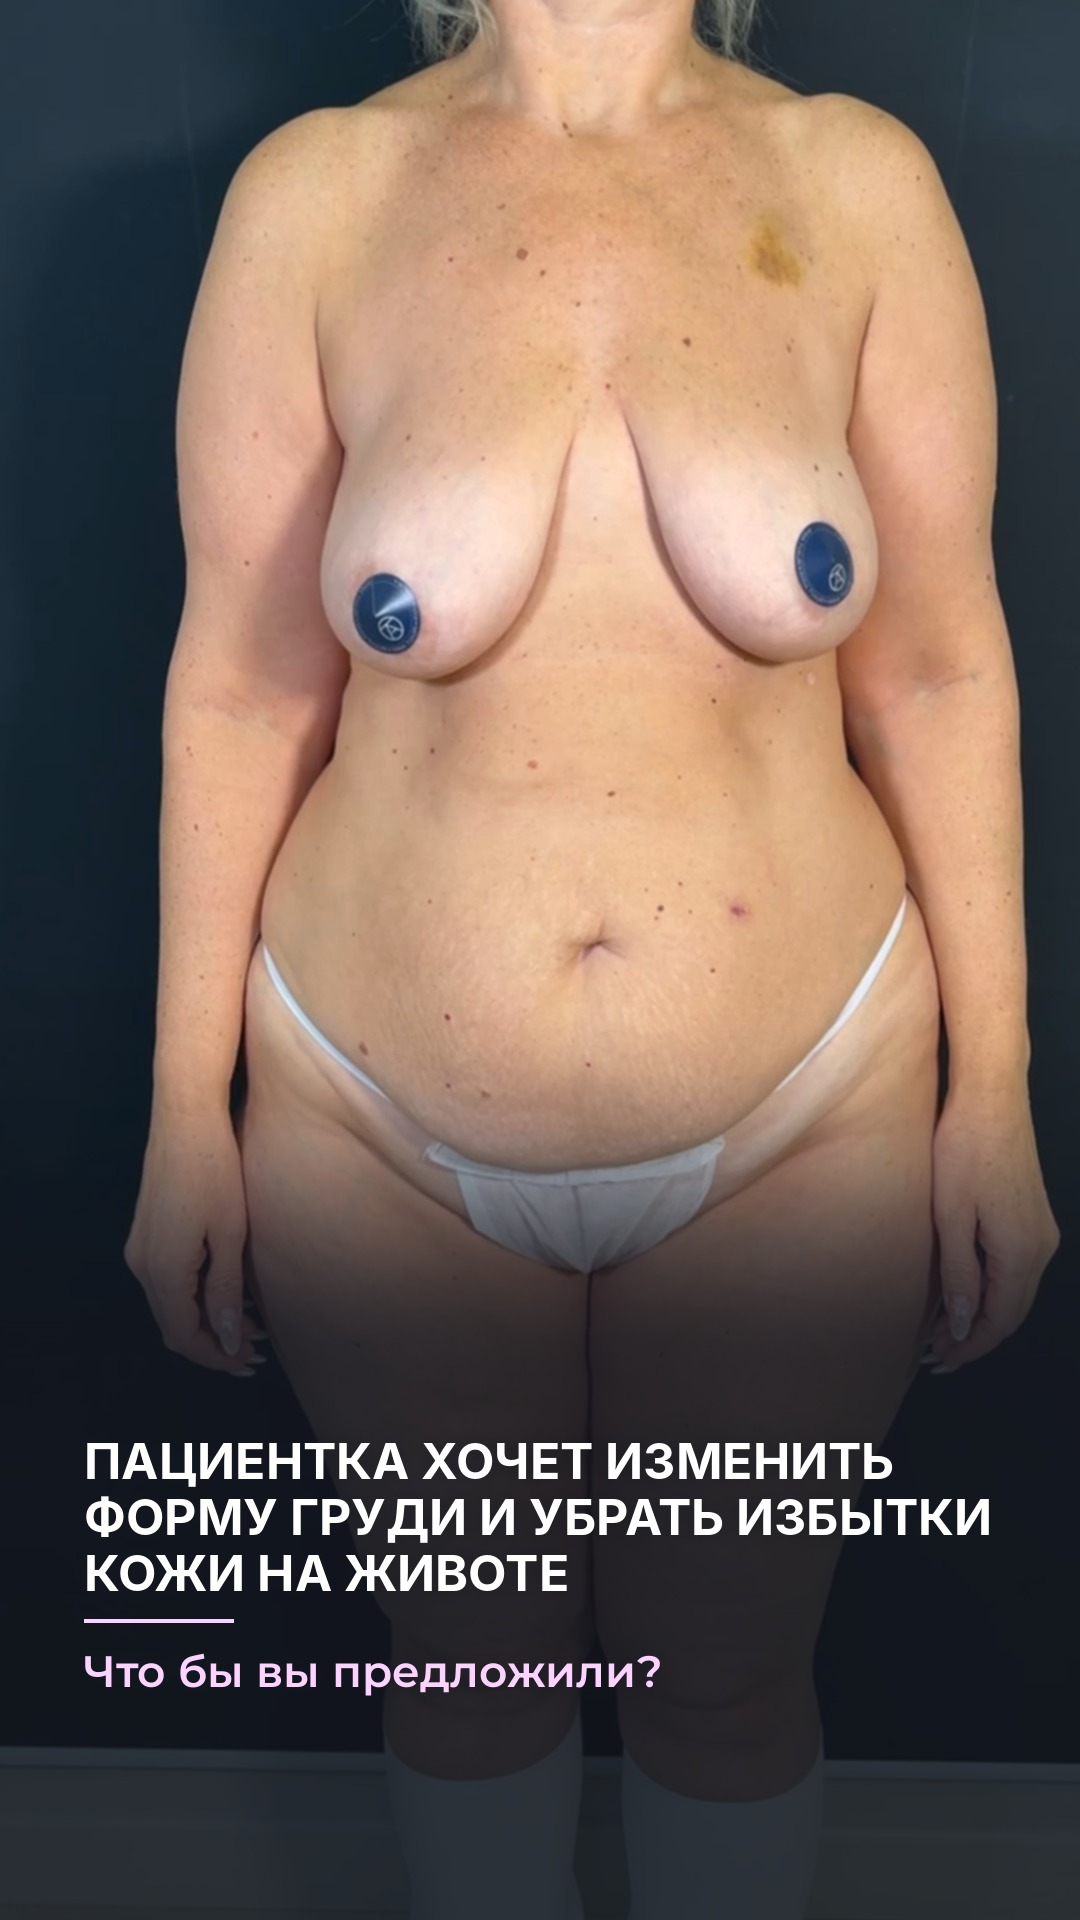
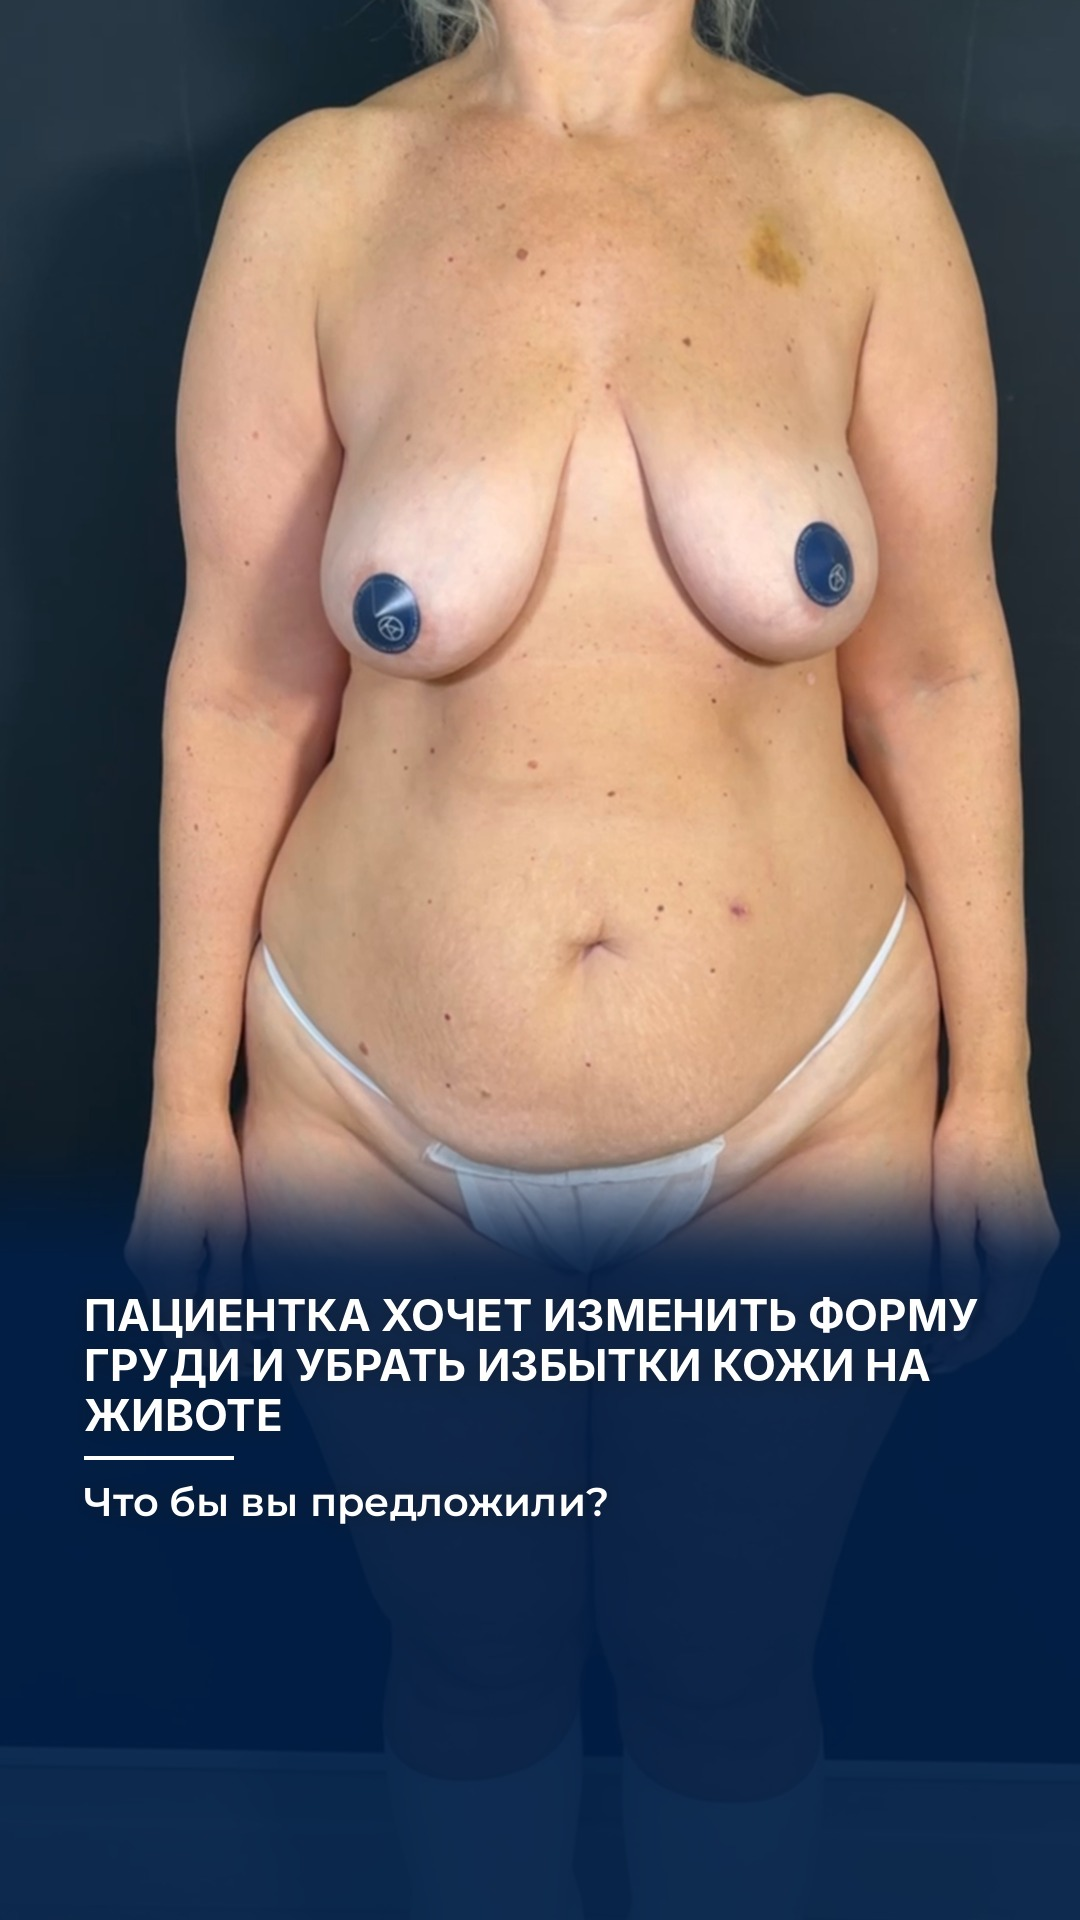
Abdo stories: surgeon's navy + white instead of lilac, poll space under the text on story 1
Claude-Session: https://claude.ai/code/session_01DoBoRz2HUe4yvMBz6dWv4L

diff --git a/tools/stories_abdo_complex.py b/tools/stories_abdo_complex.py
@@ -2,7 +2,7 @@
 
 Fonts: Inter Bold caps headlines (the bold face from the reference story), Montserrat Light body,
 Montserrat Medium subtitles on the slate plate from the reference.  Brand palette from the surgeon's
-posts (graphite / lilac / powder).  Subtitles are hand-timed cues built from the word timings of
+posts: navy of her logo + white.  Subtitles are hand-timed cues built from the word timings of
 the voice clips; lilac/powder arrows mark the zones on the before/after collages.
 
 usage: python3 stories_abdo_complex.py SRC_DIR OUT_DIR [story numbers...]
@@ -26,6 +26,7 @@ WHITE = (255, 255, 255)
 LILAC = (252, 211, 255)
 POWDER = (233, 207, 199)
 GRAPHITE = (20, 23, 31)
+NAVY = (2, 31, 71)             # the surgeon's colour: navy of her sticker/logo, with white
 SLATE = (78, 86, 112)          # subtitle plate from the reference story
 
 SRC, OUT = sys.argv[1], sys.argv[2]
@@ -117,7 +118,7 @@ class Column:
         self._add(im, pad, t0, gap); return self
 
     def rule(self, t0, length=150, gap=30):
-        im = Image.new("RGBA", (length, 4), LILAC + (255,))
+        im = Image.new("RGBA", (length, 4), WHITE + (255,))
         x = {"left": MARGIN, "right": W - MARGIN - length}.get(self.align, (W - length) // 2)
         self.items.append(Sprite(im, x, self.y, t0, dy=0)); self.y += 4 + gap; self.bottom = self.y; return self
 
@@ -279,7 +280,7 @@ def render(num, slug, dur, bg, sprites, shade=None, subs=None, audio=None, anima
         fr = bg(i, t).astype(np.float32) / 255.0
         if shade is not None:
             sh = shade(t) if callable(shade) else shade
-            fr = fr * (1 - sh) + np.array(GRAPHITE, np.float32) / 255 * sh
+            fr = fr * (1 - sh) + np.array(NAVY, np.float32) / 255 * sh
         for s in sprites: s.draw(fr, t)
         if subs: subs.draw(fr, t)
         o = (np.clip(fr, 0, 1) * 255).astype(np.uint8)
@@ -444,20 +445,19 @@ FIXES = {"грудное оскармливание": "грудное вскар
 
 def s1():
     c = Clip("IMG_9968.MP4", 0.0, 10.0, ct=0.12, zoom=(1.0, 1.03), zc=(0.5, 0.35))     # face is above the window
-    col = Column(0, align="left")
-    col.head("ПАЦИЕНТКА ХОЧЕТ ИЗМЕНИТЬ ФОРМУ ГРУДИ И УБРАТЬ ИЗБЫТКИ КОЖИ НА ЖИВОТЕ", 0, size=50, gap=18).rule(0, gap=20)
-    col.body("Что бы вы предложили?", 0, size=44, wght=600, col=LILAC, gap=0)
-    col.to_bottom(1700)
-    print("s1 top", col.top)
-    # poll «Подтяжка груди + липосакция / Подтяжка и липофилинг + абдомино» goes above the text, over the thighs
-    render(1, "chto_by_vy_predlozhili", 10.0, clip_bg(c), col.items, shade=bottom_shade(col.top - 420, 0.86))
+    col = Column(1290, align="left")
+    col.head("ПАЦИЕНТКА ХОЧЕТ ИЗМЕНИТЬ ФОРМУ ГРУДИ И УБРАТЬ ИЗБЫТКИ КОЖИ НА ЖИВОТЕ", 0, size=44, gap=16).rule(0, gap=16)
+    col.body("Что бы вы предложили?", 0, size=40, wght=600, gap=0)
+    print("s1 text", col.y)
+    # navy band from the hips down: text on top of it, the poll sticker goes under the text (~1530..1780), empty on purpose
+    render(1, "chto_by_vy_predlozhili", 10.0, clip_bg(c), col.items, shade=vgrad(1120, 1280, 0.0, 0.93))
 
 
 def s2():
     a, b = 0.0, 7.6                                    # «У нас комплексная операция большая, абдоминопластика, ... липофилинг груди»
     c = Clip("IMG_3806.MP4", a, b, zoom=(1.0, 1.03), zc=(0.5, 0.3))
     col = Column(0, align="left")
-    col.head("ВЫ ПРАВЫ,", 0, size=50, col=LILAC, gap=10)
+    col.head("ВЫ ПРАВЫ,", 0, size=50, gap=10)
     col.body("мы выполняем большую комплексную операцию:", 0, size=34, wght=400, gap=10)
     col.head("АБДОМИНОПЛАСТИКА, ПОДТЯЖКА И ЛИПОФИЛИНГ ГРУДИ", 0, size=42, gap=0)
     col.to_bottom(1770)

diff --git a/stories_abdo_complex/README.md b/stories_abdo_complex/README.md
@@ -5,7 +5,7 @@
 
 | № | Файл | Фон | Звук | Стикер в Instagram |
 |---|------|-----|------|--------------------|
-| 1 | 01_chto_by_vy_predlozhili | видео ДО (IMG_9968, 0:00–0:10), лицо за кадром | нет | **Опрос** над текстом, на бёдрах: 🔘 Подтяжка груди + липосакция / 🔘 Подтяжка и липофилинг + абдомино |
+| 1 | 01_chto_by_vy_predlozhili | видео ДО (IMG_9968, 0:00–0:10), лицо за кадром | нет | **Опрос** под текстом, на тёмно-синей плашке (~1530–1780 px): 🔘 Подтяжка груди + липосакция / 🔘 Подтяжка и липофилинг + абдомино |
 | 2 | 02_vy_pravy | хирург, IMG_3806 0:00–0:07.6 — «У нас комплексная операция большая, абдоминопластика, подтяжка груди, липофилинг груди» | голос (субтитры уже вшиты в исходник) | — |
 
-Текст стоит неподвижно с первого кадра. Шрифты: заголовки — Inter Bold, текст — Montserrat. Цвета бренда: графит, лиловый.
+Текст стоит неподвижно с первого кадра. Шрифты: заголовки — Inter Bold, текст — Montserrat. Цвета хирурга: тёмно-синий (как на стикере и логотипе) и белый.
